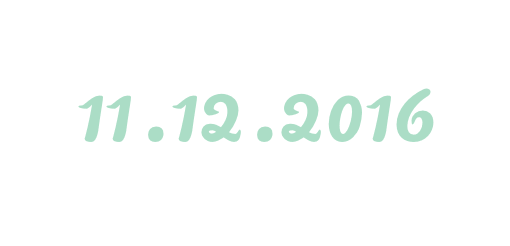
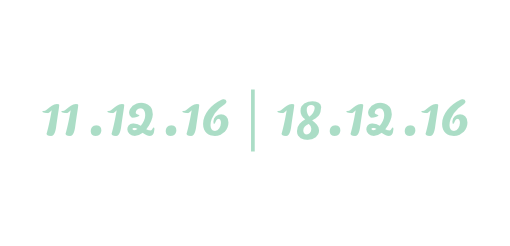
Final touch ups. - 2 dates for the main section. - fix on the name for dewan.

Changed region(s): [[0.0882, 0.3415, 0.9412, 0.626]]

diff --git a/index.html b/index.html
@@ -121,7 +121,7 @@
     <div class="content-box">
       <h1 class="info-title">Event Info</h1>
       <div class="info-content">
-        <h2>Dewan MPSP</h2>
+        <h2 class="event-title">Dewan MPSP</h2>
         <h3>Kepala Batas, P. Pinang</h3>
         <h3>11 DEC 2016</h3>
         <h3>12PM - 5PM</h3>
@@ -153,7 +153,7 @@
         </div>
       </div>
       <div class="info-content">
-        <h2>Dewan Felda</h2>
+        <h2 class="event-title">Dewan Merak Kayangan</h2>
         <h3>Kuala Lumpur</h3>
         <h3>18 DEC 2016</h3>
         <h3>11.30AM - 3.30PM</h3>
@@ -164,7 +164,7 @@
           <div id="event-info2">
             <p class="event-info">
               Venue: Dewan Merak Kayangan<br />
-              Address: <a href="https://goo.gl/maps/3p4bqn7nfHu" target="_blank">No. 2 Jalan Maktab 6, 54000, Kuala Lumpur</a><br />
+              Address: <a href="https://goo.gl/maps/ibGpWUchmGQ2" target="_blank">Dewan Merak Kayangan, Balai Felda, 54000, Kuala Lumpur</a><br />
               Date: 18 December 2016<br />
               Time: 11.30am - 3.30pm<br /><br />
               Contact info:<br /><br />
@@ -178,7 +178,7 @@
           </div>
         </div>
         <div class="get-directions">
-          <a href="https://goo.gl/maps/3p4bqn7nfHu" target="_blank" class="directions btn">Driving Directions<span></span></a>
+          <a href="https://goo.gl/maps/ibGpWUchmGQ2" target="_blank" class="directions btn">Driving Directions<span></span></a>
         </div>
       </div>
     </div>

diff --git a/css/desktop/event_info.css b/css/desktop/event_info.css
@@ -79,6 +79,10 @@
 	width: 420px;
 }
 
+.event-title {
+	font-size: 40px;
+}
+
 .btn {
 	position: relative;
 	margin: 0;
